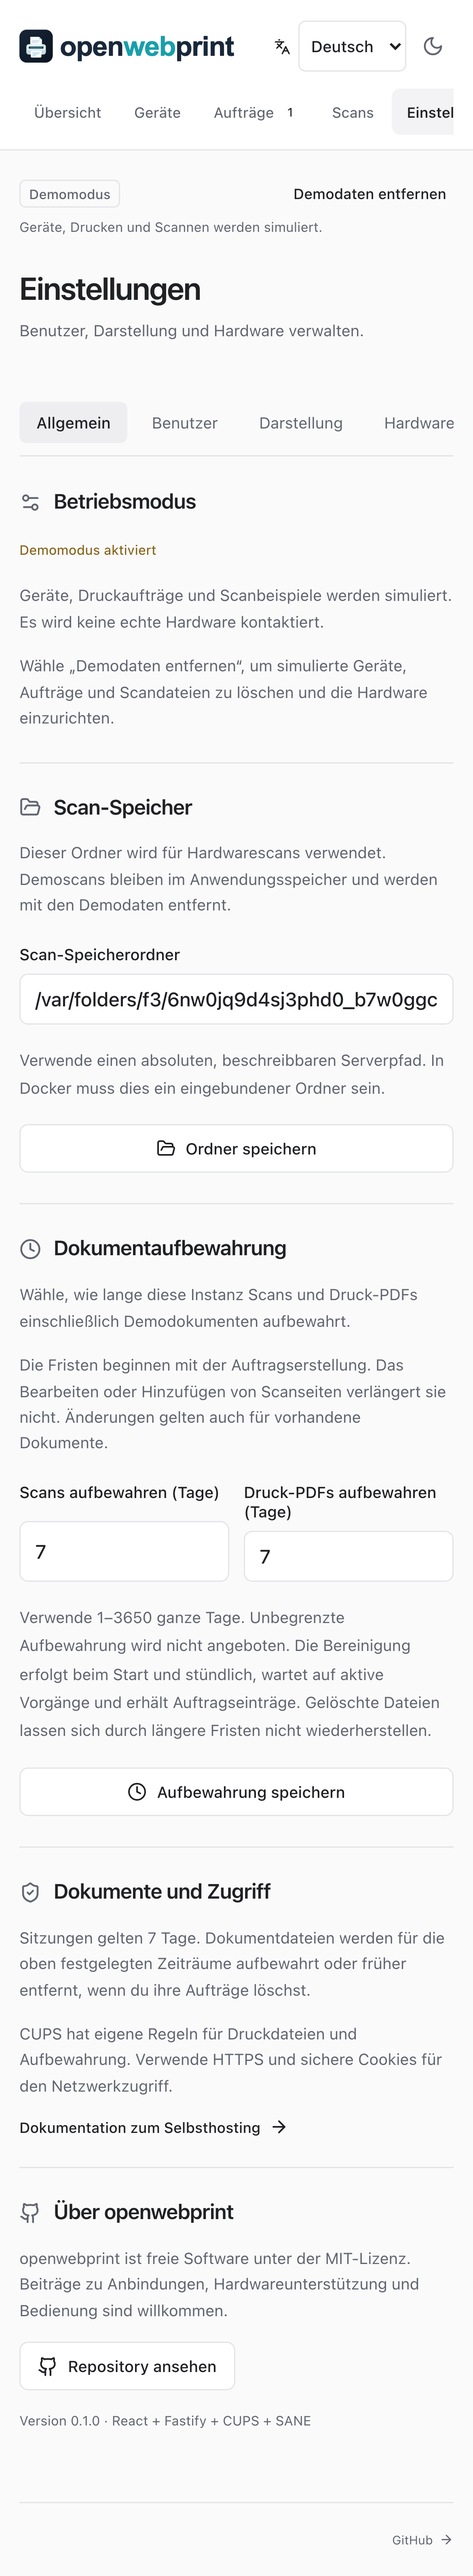
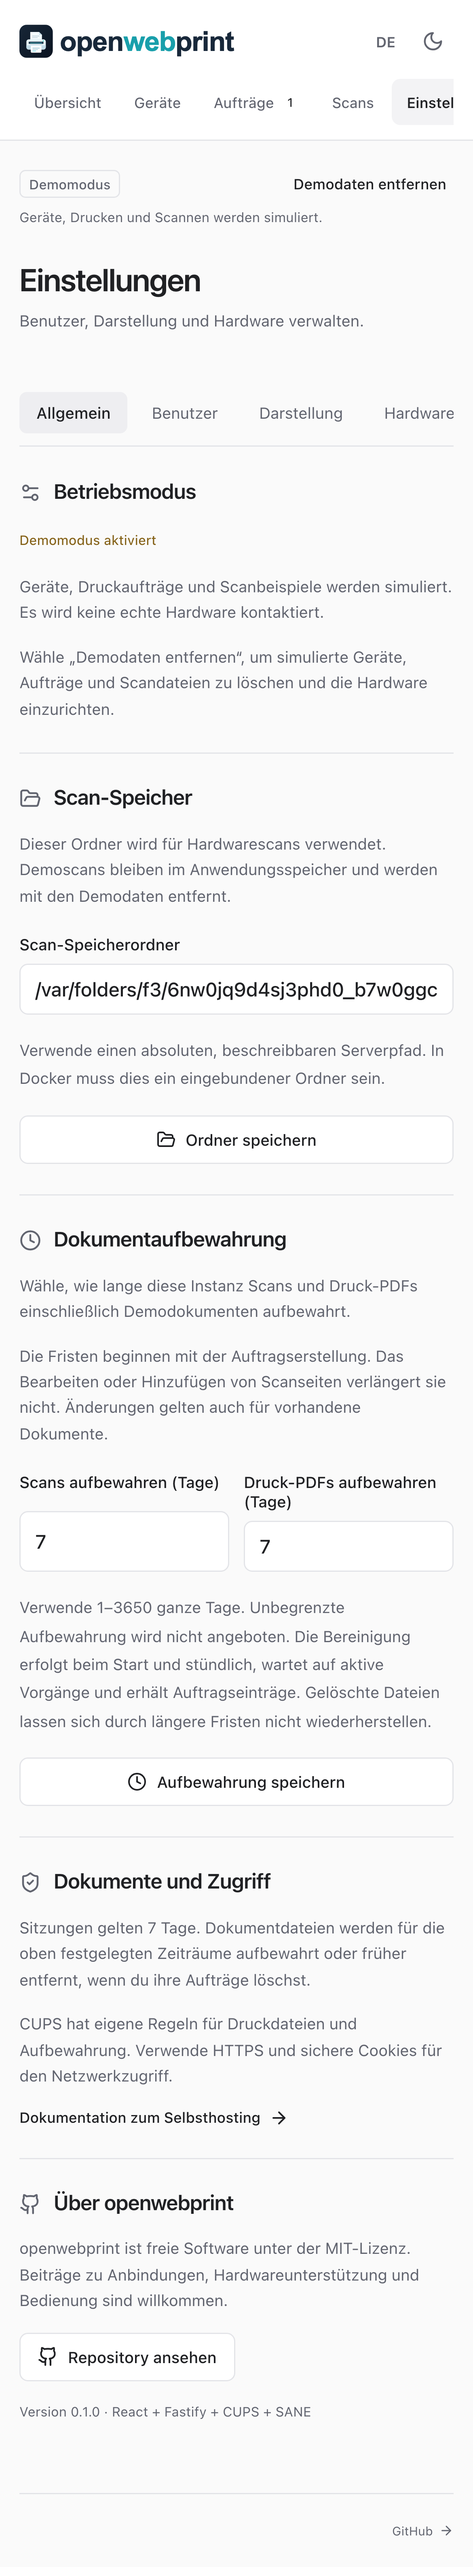
fix: replace language dropdown with compact cycling button

diff --git a/apps/client/src/i18n.ts b/apps/client/src/i18n.ts
@@ -8,17 +8,25 @@ import {
 import { useSyncExternalStore } from 'react';
 import de from './de.json';
 
-export type Language = 'en' | 'de';
+// Add languages here; the picker, browser preference detection and formatting use this registry.
+export const languages = {
+  en: { name: 'English', locale: 'en-GB', messages: {} as Record<string, string> },
+  de: { name: 'Deutsch', locale: 'de-DE', messages: de as Record<string, string> },
+};
+export type Language = keyof typeof languages;
+export const supportedLanguages = Object.keys(languages) as Language[];
 type Params = Record<string, string | number | boolean | null | undefined>;
 const storageKey = 'owp-language';
-const translations: Record<string, string> = de;
 const listeners = new Set<() => void>();
 
+function isLanguage(value: string | null): value is Language {
+  return value !== null && Object.hasOwn(languages, value);
+}
 export function initialLanguage(saved: string | null, languages: readonly string[]): Language {
-  if (saved === 'en' || saved === 'de') return saved;
+  if (isLanguage(saved)) return saved;
   for (const language of languages) {
     const base = language.toLowerCase().split('-')[0];
-    if (base === 'en' || base === 'de') return base;
+    if (isLanguage(base)) return base;
   }
   return 'en';
 }
@@ -30,7 +38,7 @@ try {
 }
 let language = initialLanguage(saved, typeof navigator === 'undefined' ? [] : navigator.languages);
 export const getLanguage = () => language;
-export const getLocale = () => (language === 'de' ? 'de-DE' : 'en-GB');
+export const getLocale = () => languages[language].locale;
 function applyLanguage(next: Language) {
   language = next;
   if (typeof document !== 'undefined') document.documentElement.lang = next;
@@ -85,7 +93,8 @@ export function t(key: string, params: Params = {}): string {
       params = { status: Number(http[1]) };
     }
   }
-  const text = language === 'de' && Object.hasOwn(translations, key) ? translations[key] : key;
+  const translations = languages[language].messages;
+  const text = Object.hasOwn(translations, key) ? translations[key] : key;
   return text.replace(/\{(\w+)\}/g, (match, name: string) => {
     if (!Object.hasOwn(params, name)) return match;
     const value = params[name];

diff --git a/e2e/localization.spec.ts b/e2e/localization.spec.ts
@@ -169,7 +169,13 @@ for (const language of ['en', 'de'] as const) {
       await expect(page.getByRole('heading', { name: labels.users, exact: true })).toBeVisible();
       // A manual choice overrides the browser locale and survives navigation/reload.
       const other = language === 'de' ? 'en' : 'de';
-      await page.getByRole('combobox', { name: labels.language, exact: true }).selectOption(other);
+      const picker = page.getByRole('button', { name: new RegExp(`^${labels.language}:`) });
+      await expect(picker).toHaveText(language.toUpperCase());
+      await picker.focus();
+      await page.keyboard.press('Enter');
+      await expect(
+        page.getByRole('button', { name: new RegExp(`^${text[other].language}:`) }),
+      ).toHaveText(other.toUpperCase());
       await expect(
         page.getByRole('heading', { name: text[other].users, exact: true }),
       ).toBeVisible();
@@ -193,13 +199,17 @@ test('synchronizes a language change across tabs without resetting an open print
   context,
 }) => {
   await page.goto('/overview');
-  await page.getByRole('combobox', { name: 'Language', exact: true }).selectOption('en');
+  if ((await page.locator('html').getAttribute('lang')) === 'de')
+    await page.getByRole('button', { name: 'Sprache: DE (Deutsch)', exact: true }).click();
   await page.getByRole('button', { name: 'Try demo', exact: true }).click();
   await page.getByRole('button', { name: 'Print', exact: true }).first().click();
   await page.getByLabel('Copies', { exact: true }).fill('3');
   const second = await context.newPage();
   await second.goto(new URL('/overview', page.url()).href);
-  await second.getByRole('combobox', { name: 'Language', exact: true }).selectOption('de');
+  await second.getByRole('button', { name: 'Language: EN (English)', exact: true }).click();
+  await expect(
+    second.getByRole('button', { name: 'Sprache: DE (Deutsch)', exact: true }),
+  ).toHaveText('DE');
   await expect(page.getByRole('heading', { name: 'Dokument drucken', exact: true })).toBeVisible();
   await expect(page.getByLabel('Kopien', { exact: true })).toHaveValue('3');
   await second.close();

diff --git a/apps/client/src/LanguagePicker.tsx b/apps/client/src/LanguagePicker.tsx
@@ -1,21 +1,20 @@
-import { Languages } from 'lucide-react';
-import { setLanguage, t, useLanguage, type Language } from './i18n';
+import { languages, supportedLanguages, setLanguage, t, useLanguage } from './i18n';
 import s from './App.module.css';
 
 export function LanguagePicker() {
   const language = useLanguage();
+  const label = `${t('Language')}: ${language.toUpperCase()} (${languages[language].name})`;
+  const next =
+    supportedLanguages[(supportedLanguages.indexOf(language) + 1) % supportedLanguages.length];
   return (
-    <label className={s.languagePicker}>
-      <Languages size={17} aria-hidden="true" />
-      <span className={s.srOnly}>{t('Language')}</span>
-      <select value={language} onChange={(event) => setLanguage(event.target.value as Language)}>
-        <option value="en" lang="en">
-          English
-        </option>
-        <option value="de" lang="de">
-          Deutsch
-        </option>
-      </select>
-    </label>
+    <button
+      type="button"
+      className={`${s.iconButton} ${s.languagePicker}`}
+      title={label}
+      aria-label={label}
+      onClick={() => setLanguage(next)}
+    >
+      {language.toUpperCase()}
+    </button>
   );
 }

diff --git a/apps/client/src/App.module.css b/apps/client/src/App.module.css
@@ -1944,22 +1944,11 @@
 }
 
 .languagePicker {
-  display: inline-flex;
-  align-items: center;
-  gap: 6px;
-  max-width: 100%;
-  flex-shrink: 0;
-  color: var(--text);
-}
-.languagePicker select {
-  font: inherit;
-  font-size: 13px;
-  color: inherit;
-  background: var(--panel);
-  border: 1px solid var(--line);
-  border-radius: 6px;
-  padding: 6px;
-  max-width: 100%;
+  width: auto;
+  min-width: 34px;
+  padding: 0 6px;
+  font-size: 12px;
+  font-weight: 600;
 }
 
 .setupHeader {
@@ -1971,7 +1960,7 @@
 }
 .authCard > .languagePicker {
   display: flex;
-  justify-content: flex-end;
+  margin-left: auto;
   margin-bottom: 20px;
 }
 @media (min-width: 761px) and (max-width: 1100px) {

diff --git a/apps/client/test/i18n.test.ts b/apps/client/test/i18n.test.ts
@@ -25,6 +25,7 @@ describe('language preferences and presentation', () => {
     expect(initialLanguage('de', ['en-US'])).toBe('de');
     expect(initialLanguage('invalid', ['fr-FR', 'de-AT', 'en-US'])).toBe('de');
     expect(initialLanguage(null, ['fr-FR'])).toBe('en');
+    expect(initialLanguage('constructor', ['toString', 'de-DE'])).toBe('de');
   });
   it('uses the selected locale for numbers, dates, file sizes, plural forms and safe errors', () => {
     setLanguage('de');

diff --git a/CONTRIBUTING.md b/CONTRIBUTING.md
@@ -84,10 +84,13 @@ or storing notifications, so changing languages updates an existing view. Keep u
 filenames, device names, addresses, and protocol option values unchanged; translate only
 their presentation labels. React renders interpolated text as text, never HTML.
 
-The language menu is available during setup, sign-in, and normal use. A valid explicit
+The compact language button shows the current language code and cycles through supported
+languages during setup, sign-in, and normal use. To add a language, import its catalog and
+register its code, native name, locale and messages in `languages` in `i18n.ts`; the button,
+preference detection, translations and formatting use this registry. A valid explicit
 choice in this origin's `localStorage` (`owp-language`) wins; otherwise the first supported
 language in the browser's ordered preferences is used (`de-*` → German, `en-*` → English).
-If none is supported, English is used. Missing German keys fall back to their English
+If none is supported, English is used. Missing translation keys fall back to their English
 phrase. Formatting uses `de-DE` or `en-GB`, with dates in the browser's time zone.
 Preferences apply to this browser, persist across sign-in/out, and synchronize between
 tabs. If storage is blocked, the choice lasts for the current tab's lifetime.
